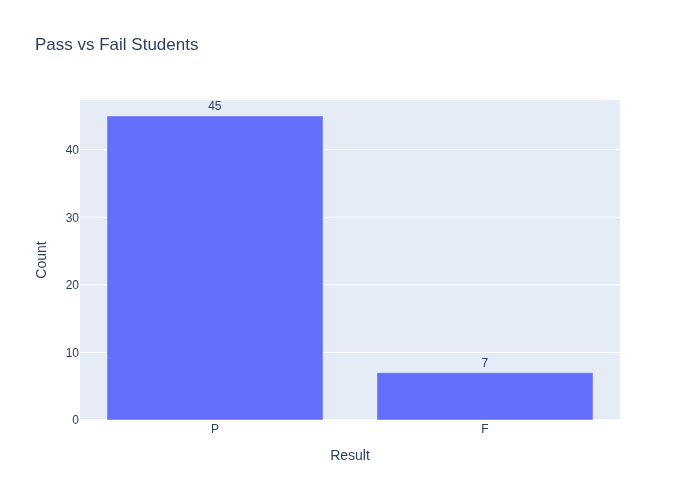
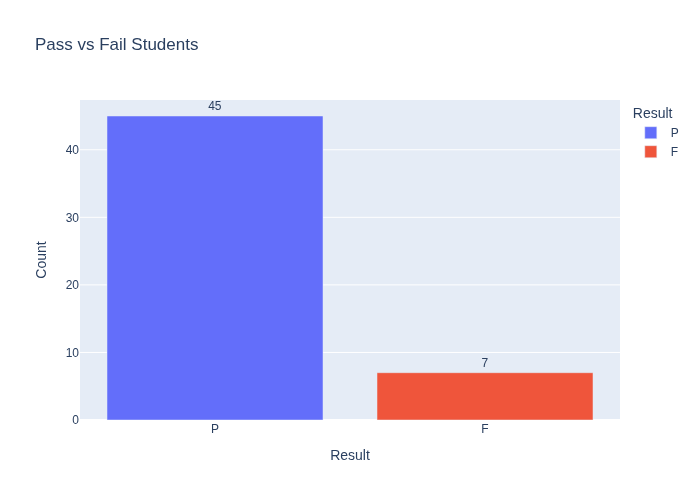
colour in graph

Changed region(s): [[0.54, 0.72, 0.87, 0.84], [0.9, 0.21, 0.96, 0.33]]

diff --git a/visualisation.py b/visualisation.py
@@ -83,6 +83,7 @@ def graph():
         fig3 = px.bar(
             result_count,
             x="Result",
+            color="Result",
             y="Count",
             text="Count",
             title="Pass vs Fail Students"
